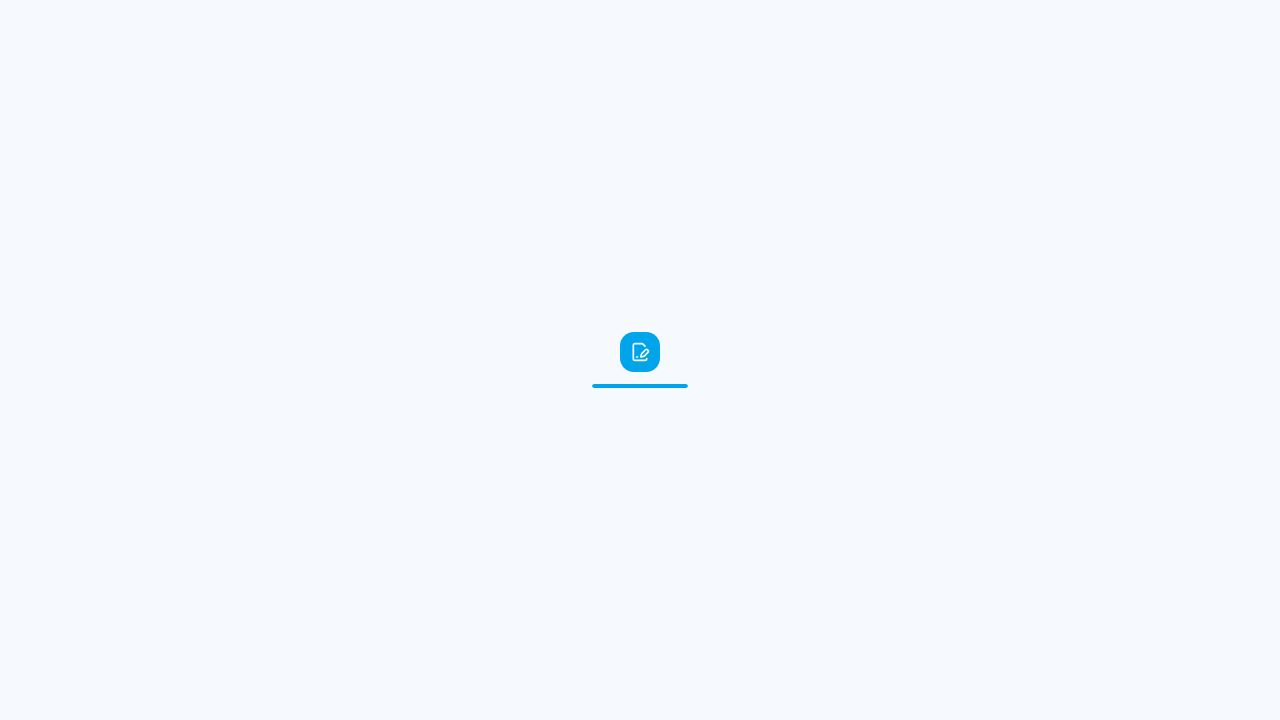
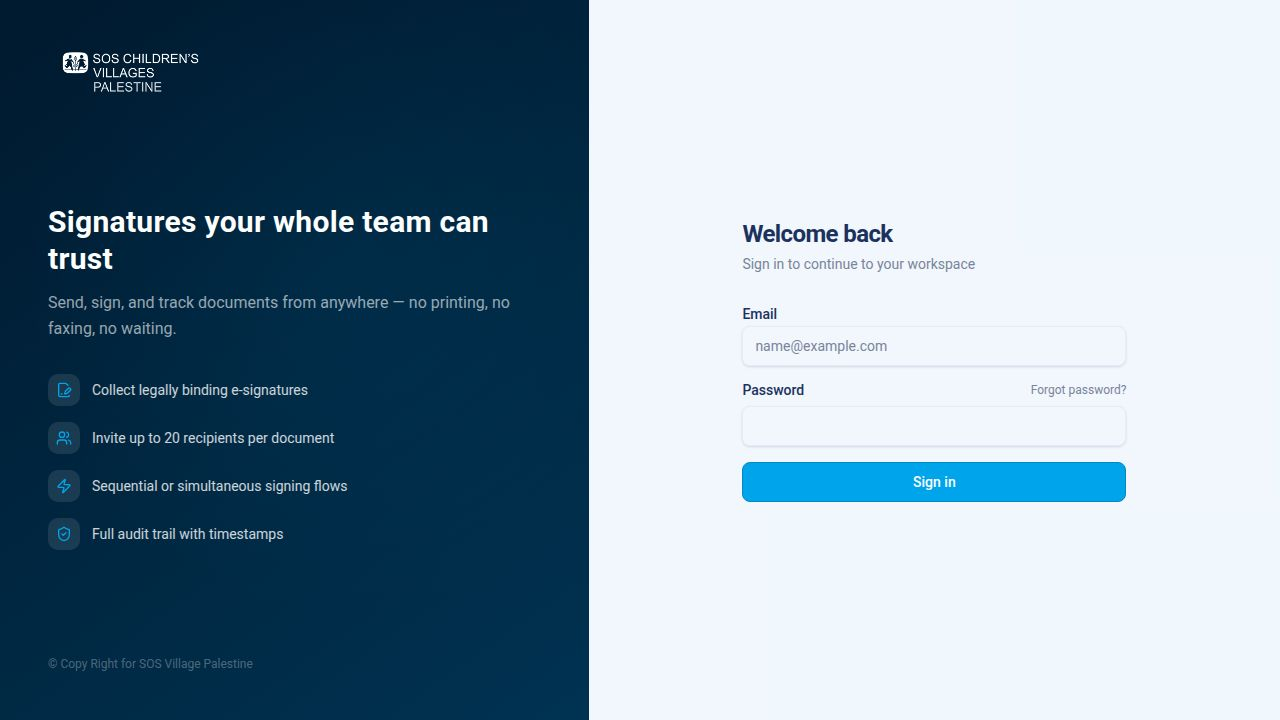
Improve application responsiveness and navigation across all devices
Introduce mobile navigation, fix table overflows, and adjust layouts for better usability on smaller screens.

Replit-Commit-Author: Agent
Replit-Commit-Session-Id: f0df05de-3abd-47e7-8efe-7c738f5463e6
Replit-Commit-Checkpoint-Type: full_checkpoint
Replit-Commit-Event-Id: ca3c3e4d-55b9-408d-9b64-1116512e8531
Replit-Commit-Screenshot-Url: https://storage.googleapis.com/screenshot-production-us-central1/7be4850d-244c-49ce-be9c-3f84ac4ed4b9/f0df05de-3abd-47e7-8efe-7c738f5463e6/Wco49qr
Replit-Helium-Checkpoint-Created: true

diff --git a/artifacts/esign-app/src/components/layout.tsx b/artifacts/esign-app/src/components/layout.tsx
@@ -1,6 +1,7 @@
+import { useState } from "react";
 import { useLogout, useGetMe, getGetMeQueryKey } from "@workspace/api-client-react";
 import { Link, useLocation } from "wouter";
-import { LogOut, FileSignature, LayoutDashboard, Plus, PenLine, Users, ClipboardList, ChevronDown } from "lucide-react";
+import { LogOut, FileSignature, LayoutDashboard, Plus, PenLine, Users, ClipboardList, ChevronDown, Menu, X } from "lucide-react";
 import { useQueryClient } from "@tanstack/react-query";
 import { Button } from "@/components/ui/button";
 import { Avatar, AvatarFallback } from "@/components/ui/avatar";
@@ -12,15 +13,17 @@ import {
   DropdownMenuSeparator,
   DropdownMenuTrigger,
 } from "@/components/ui/dropdown-menu";
+import { Sheet, SheetContent, SheetTrigger } from "@/components/ui/sheet";
 
 interface LayoutProps {
   children: React.ReactNode;
 }
 
-function NavLink({ href, icon: Icon, label, active }: { href: string; icon: React.ElementType; label: string; active: boolean }) {
+function NavLink({ href, icon: Icon, label, active, onClick }: { href: string; icon: React.ElementType; label: string; active: boolean; onClick?: () => void }) {
   return (
     <Link
       href={href}
+      onClick={onClick}
       className={`flex items-center gap-2 text-sm font-medium px-3 py-1.5 rounded-full transition-all ${
         active
           ? "bg-primary/10 text-primary"
@@ -33,11 +36,29 @@ function NavLink({ href, icon: Icon, label, active }: { href: string; icon: Reac
   );
 }
 
+function MobileNavLink({ href, icon: Icon, label, active, onClick }: { href: string; icon: React.ElementType; label: string; active: boolean; onClick: () => void }) {
+  return (
+    <Link
+      href={href}
+      onClick={onClick}
+      className={`flex items-center gap-3 text-base font-medium px-3 py-3 rounded-lg transition-all ${
+        active
+          ? "bg-primary/10 text-primary"
+          : "text-foreground hover:bg-muted"
+      }`}
+    >
+      <Icon className="h-5 w-5" />
+      {label}
+    </Link>
+  );
+}
+
 export function Layout({ children }: LayoutProps) {
   const [location] = useLocation();
   const { data: me } = useGetMe();
   const logoutMutation = useLogout();
   const queryClient = useQueryClient();
+  const [mobileMenuOpen, setMobileMenuOpen] = useState(false);
 
   const handleLogout = () => {
     logoutMutation.mutate(undefined, {
@@ -54,6 +75,13 @@ export function Layout({ children }: LayoutProps) {
   const isAdmin = me?.user?.role === "admin";
   const canSeeAudit = me?.user?.role === "admin" || me?.user?.role === "auditor";
 
+  const navLinks = [
+    { href: "/", icon: LayoutDashboard, label: "Dashboard", show: true },
+    { href: "/documents/upload", icon: Plus, label: "New Document", show: true },
+    { href: "/admin/users", icon: Users, label: "Users", show: isAdmin },
+    { href: "/admin/audit", icon: ClipboardList, label: "Audit Log", show: canSeeAudit },
+  ].filter(l => l.show);
+
   return (
     <div className="min-h-[100dvh] flex flex-col bg-background">
       <header className="sticky top-0 z-30 w-full border-b bg-card/80 backdrop-blur-sm">
@@ -64,15 +92,11 @@ export function Layout({ children }: LayoutProps) {
             </div>
           </Link>
 
+          {/* Desktop nav */}
           <nav className="hidden md:flex items-center gap-1">
-            <NavLink href="/" icon={LayoutDashboard} label="Dashboard" active={location === "/"} />
-            <NavLink href="/documents/upload" icon={Plus} label="New Document" active={location === "/documents/upload"} />
-            {isAdmin && (
-              <NavLink href="/admin/users" icon={Users} label="Users" active={location === "/admin/users"} />
-            )}
-            {canSeeAudit && (
-              <NavLink href="/admin/audit" icon={ClipboardList} label="Audit Log" active={location === "/admin/audit"} />
-            )}
+            {navLinks.map(l => (
+              <NavLink key={l.href} href={l.href} icon={l.icon} label={l.label} active={location === l.href} />
+            ))}
           </nav>
 
           <div className="flex items-center gap-2 ml-auto">
@@ -116,11 +140,52 @@ export function Layout({ children }: LayoutProps) {
                 </DropdownMenuItem>
               </DropdownMenuContent>
             </DropdownMenu>
+
+            {/* Mobile hamburger */}
+            <Sheet open={mobileMenuOpen} onOpenChange={setMobileMenuOpen}>
+              <SheetTrigger asChild>
+                <Button variant="ghost" size="icon" className="md:hidden h-8 w-8" aria-label="Open navigation menu">
+                  {mobileMenuOpen ? <X className="h-5 w-5" /> : <Menu className="h-5 w-5" />}
+                </Button>
+              </SheetTrigger>
+              <SheetContent side="left" className="w-72 pt-12">
+                <nav className="flex flex-col gap-1">
+                  {navLinks.map(l => (
+                    <MobileNavLink
+                      key={l.href}
+                      href={l.href}
+                      icon={l.icon}
+                      label={l.label}
+                      active={location === l.href}
+                      onClick={() => setMobileMenuOpen(false)}
+                    />
+                  ))}
+                  <div className="mt-4 pt-4 border-t">
+                    <SavedSignatureDialog>
+                      <button
+                        className="flex items-center gap-3 text-base font-medium px-3 py-3 rounded-lg w-full text-foreground hover:bg-muted transition-all"
+                        onClick={() => setMobileMenuOpen(false)}
+                      >
+                        <PenLine className="h-5 w-5" />
+                        My Signature
+                      </button>
+                    </SavedSignatureDialog>
+                    <button
+                      onClick={() => { handleLogout(); setMobileMenuOpen(false); }}
+                      className="flex items-center gap-3 text-base font-medium px-3 py-3 rounded-lg w-full text-destructive hover:bg-destructive/10 transition-all"
+                    >
+                      <LogOut className="h-5 w-5" />
+                      Sign out
+                    </button>
+                  </div>
+                </nav>
+              </SheetContent>
+            </Sheet>
           </div>
         </div>
       </header>
 
-      <main className="flex-1 container mx-auto px-4 py-8">
+      <main className="flex-1 container mx-auto px-4 py-4 md:py-8">
         {children}
       </main>
     </div>

diff --git a/artifacts/esign-app/src/pages/document-detail.tsx b/artifacts/esign-app/src/pages/document-detail.tsx
@@ -508,15 +508,15 @@ export function DocumentDetailPage() {
         <div className="flex flex-col sm:flex-row sm:items-center justify-between gap-4">
           <div>
             <h1 className="text-2xl font-bold tracking-tight">{doc.title}</h1>
-            <div className="flex items-center gap-3 mt-1 text-sm text-muted-foreground">
-              <span>{doc.filename}</span>
-              <span>•</span>
+            <div className="flex flex-wrap items-center gap-x-3 gap-y-1 mt-1 text-sm text-muted-foreground">
+              <span className="truncate max-w-[18rem]">{doc.filename}</span>
+              <span className="hidden sm:inline">•</span>
               <span>{format(new Date(doc.createdAt), "MMM d, yyyy")}</span>
-              <span>•</span>
+              <span className="hidden sm:inline">•</span>
               <span className="capitalize">{doc.signingOrder}</span>
             </div>
           </div>
-          <div className="flex items-center gap-3">
+          <div className="flex flex-wrap items-center gap-2">
             <StatusBadge status={doc.status} />
             {isPdf && (
               <DownloadButton docId={id} filename={doc.filename} />

diff --git a/artifacts/esign-app/src/pages/admin-audit.tsx b/artifacts/esign-app/src/pages/admin-audit.tsx
@@ -217,7 +217,7 @@ export function AdminAuditPage() {
   return (
     <div className="space-y-6">
       {/* Header */}
-      <div className="flex items-start justify-between gap-4">
+      <div className="flex flex-col sm:flex-row sm:items-start justify-between gap-3">
         <div>
           <h1 className="text-2xl font-bold tracking-tight flex items-center gap-2">
             <ClipboardList className="h-6 w-6 text-primary" />
@@ -263,7 +263,7 @@ export function AdminAuditPage() {
 
       {/* Tabs */}
       <Tabs defaultValue="all">
-        <TabsList>
+        <TabsList className="flex-wrap h-auto gap-1">
           <TabsTrigger value="all" className="gap-1.5">
             <ClipboardList className="h-3.5 w-3.5" />
             All{tabCount("all")}
@@ -298,7 +298,7 @@ export function AdminAuditPage() {
                     {tab === "review" && "Reviewer approvals and change requests"}
                   </CardDescription>
                 </CardHeader>
-                <CardContent className="p-0">
+                <CardContent className="p-0 overflow-x-auto">
                   <EventTable
                     events={filtered}
                     isLoading={isLoading}

diff --git a/artifacts/esign-app/src/pages/admin-users.tsx b/artifacts/esign-app/src/pages/admin-users.tsx
@@ -158,7 +158,7 @@ export function AdminUsersPage() {
 
   return (
     <div className="space-y-6">
-      <div className="flex items-center justify-between">
+      <div className="flex flex-col sm:flex-row sm:items-center justify-between gap-3">
         <div>
           <h1 className="text-2xl font-bold tracking-tight flex items-center gap-2">
             <Users className="h-6 w-6 text-primary" />
@@ -269,7 +269,7 @@ export function AdminUsersPage() {
             Users can sign in with email/password or Microsoft SSO
           </CardDescription>
         </CardHeader>
-        <CardContent className="p-0">
+        <CardContent className="p-0 overflow-x-auto">
           {isLoading ? (
             <div className="p-8 text-center text-muted-foreground">Loading users…</div>
           ) : users.length === 0 ? (